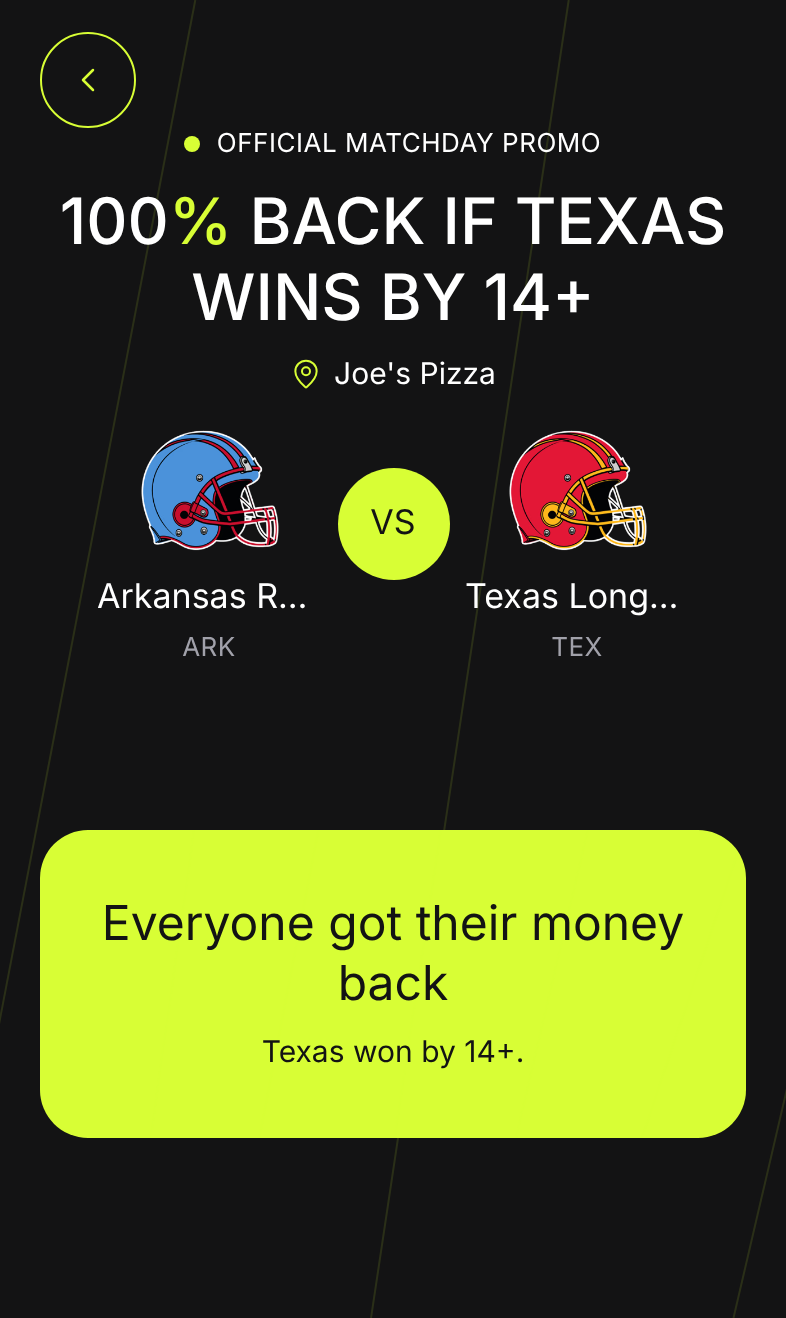
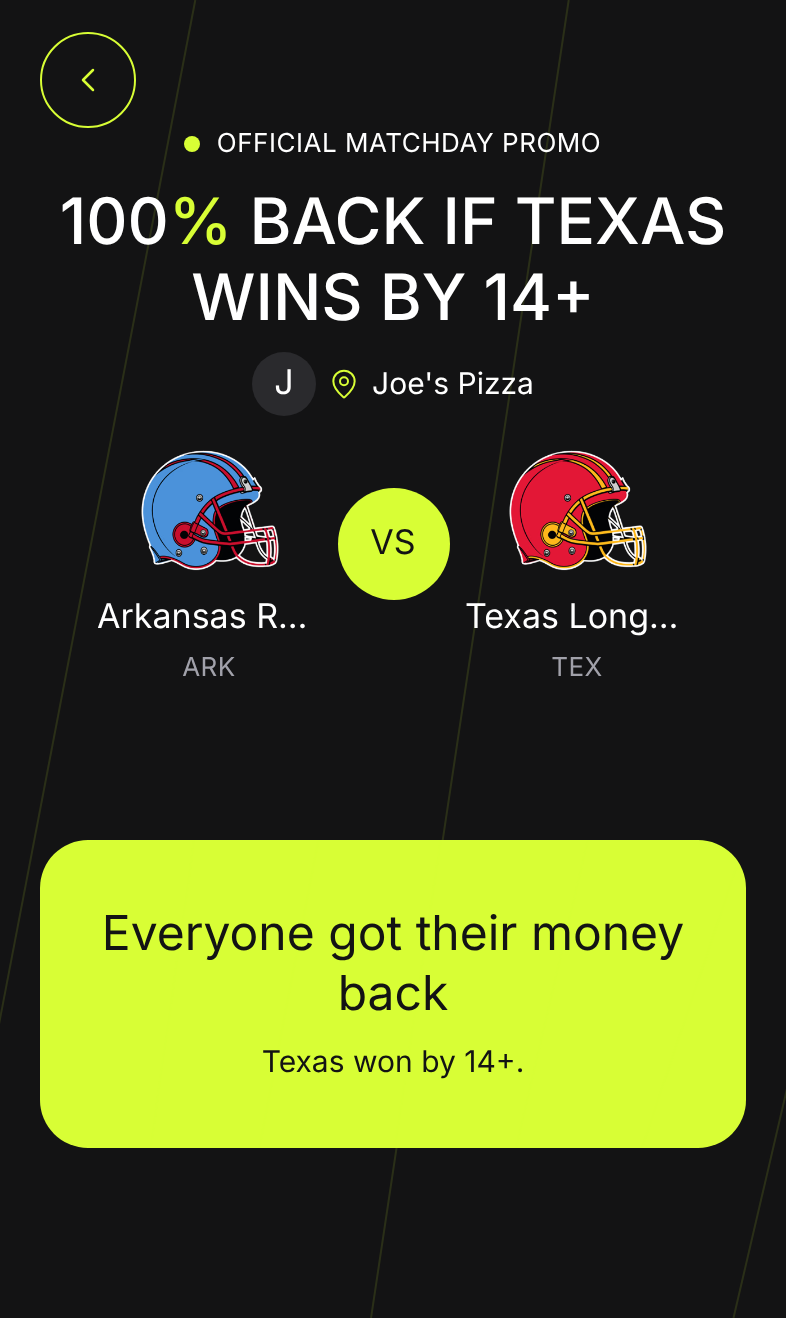
docs(receipts): the captures with the fan's money path corrected
Rewritten by the browser suite on the merged tree (97 tests, none expected
to fail): the fan's purchase picked up after a reload, the notice when a
purchase is still on its way, the stale odds, the merchant's logo on C1 and
the ticket's chance sentence.

diff --git a/docs/receipts/ui/README.md b/docs/receipts/ui/README.md
@@ -4,7 +4,7 @@
 et ce fichier sont réécrits à chaque passage ; `measures.json` garde les mesures (une mesure qu'un
 passage partiel n'a pas refaite garde sa date d'origine, dans la dernière colonne).
 
-Dernier passage : 2026-11-19T21:50:12.549Z (UTC).
+Dernier passage : 2026-11-19T22:46:09.622Z (UTC).
 
 ## Mesures du dernier passage
 
@@ -17,11 +17,11 @@ de 30 secondes ») : une valeur égale à la limite est notée DÉPASSÉ.
 
 | Mesure | Valeur | Limite stricte (SPEC 17) | Détail | Mesurée le (UTC) |
 | --- | --- | --- | --- | --- |
-| Compilation des pages et des routes par `next dev` avant les parcours (non comptée dans les parcours) | 115 s | – | 15 pages, 15 routes d'API, une requête chacune | 2026-11-19T21:45:37.088Z |
-| Achat client, du scan (ouverture de C1) au ticket affiché | 5,7 s (tenu) | 30 s | navigation vers /c/joes-texas jusqu'à la jauge du ticket visible, hors prise des captures ; comprend 0,5 s d'autorisation simulée et le suivi du paiement (1 s) | 2026-11-19T21:45:54.560Z |
-| Achat client, C1 → C3 : taps | 2 taps | – | 1. tap « Buy with Apple Pay » (C1) · 2. tap the simulated payment (C2) | 2026-11-19T21:45:54.559Z |
-| Onboarding commerçant, M0 → M8 : durée | 11,4 s (tenu) | 120 s | de M0 affiché au QR de M8 affiché, hors prise des captures ; gestes d'un robot, un humain lit et tape plus lentement | 2026-11-19T21:47:09.388Z |
-| Onboarding commerçant, M0 → M8 : taps | 12 taps (tenu) | 15 taps | 1. tap « Start a promo » (M0) · 2. type the e-mail (M1) · 3. tap Continue (M1) · 4. type the 6-digit code (M1) · 5. type the business name (M2) · 6. tap the category « Bar » (M2) · 7. tap Continue (M2) · 8. tap the first game (M3) · 9. tap the recommended promo (M4) · 10. tap Continue (M5) · 11. tap « Review the promo » (M6) · 12. tap the simulated payment (M7) | 2026-11-19T21:47:09.387Z |
+| Compilation des pages et des routes par `next dev` avant les parcours (non comptée dans les parcours) | 131 s | – | 15 pages, 15 routes d'API, une requête chacune | 2026-11-19T22:40:41.004Z |
+| Achat client, du scan (ouverture de C1) au ticket affiché | 6 s (tenu) | 30 s | navigation vers /c/joes-texas jusqu'à la jauge du ticket visible, hors prise des captures ; comprend 0,5 s d'autorisation simulée et le suivi du paiement (1 s) | 2026-11-19T22:40:58.950Z |
+| Achat client, C1 → C3 : taps | 2 taps | – | 1. tap « Buy with Apple Pay » (C1) · 2. tap the simulated payment (C2) | 2026-11-19T22:40:58.949Z |
+| Onboarding commerçant, M0 → M8 : durée | 12,3 s (tenu) | 120 s | de M0 affiché au QR de M8 affiché, hors prise des captures ; gestes d'un robot, un humain lit et tape plus lentement | 2026-11-19T22:43:17.420Z |
+| Onboarding commerçant, M0 → M8 : taps | 12 taps (tenu) | 15 taps | 1. tap « Start a promo » (M0) · 2. type the e-mail (M1) · 3. tap Continue (M1) · 4. type the 6-digit code (M1) · 5. type the business name (M2) · 6. tap the category « Bar » (M2) · 7. tap Continue (M2) · 8. tap the first game (M3) · 9. tap the recommended promo (M4) · 10. tap Continue (M5) · 11. tap « Review the promo » (M6) · 12. tap the simulated payment (M7) | 2026-11-19T22:43:17.420Z |
 
 ## Les images
 
@@ -101,7 +101,6 @@ cette requête, comme toute requête qui sortirait de la machine.
 Chacun fait passer son test tant que le défaut existe, et le fait échouer le jour où il est corrigé :
 retirer alors le `test.fail`.
 
-- C3 before the game shows « 14% · CHANCE IT'S FREE », not SPEC 5.4's « 14 % chance this is free »: that sentence (copy.ticket.chanceTitle) is only the gauge's aria-label (components/ui/gauge.tsx:26, visible text gauge.tsx:67)
 
 ## Ce que ces reçus ne prouvent pas
 
